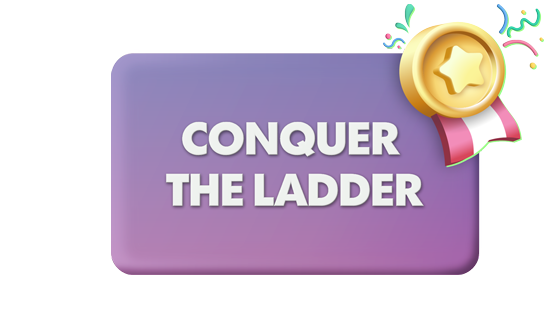
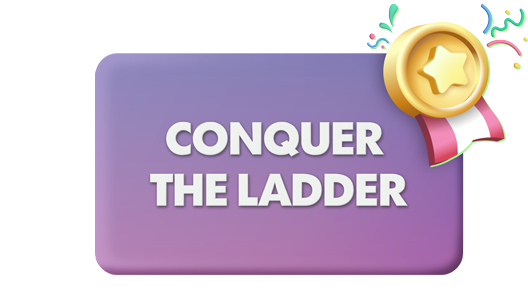
images of welcome page fixed, comment shadow fixed,img cursor fixed,

Changed region(s): [[0.1818, 0.0, 1.0, 0.9269]]

diff --git a/public/css/style.css b/public/css/style.css
@@ -1964,6 +1964,9 @@ span {
     line-height: normal !important;
     margin: 0 !important;
 }
+.badge-card{
+    background: linear-gradient(135deg, rgba(130, 36, 227, 0.04) 0%, rgba(255, 255, 255, 0) 25%, rgba(130, 36, 227, 0.07) 100%) !important;
+}
 .badge-card .gained{
     font-size: 20px;
 }
@@ -2026,6 +2029,11 @@ span {
 }
 .friend-info .carousel-indicators li.active {
     background: #581c87;
+}
+.we-comet{
+    width: 90% !important;
+    margin-left: 20px;
+    margin-top: 20px;
 }
 /* .we-comet>li{
     background: linear-gradient(135deg, rgba(130, 36, 227, 0.04) 0%, rgba(255, 255, 255, 0) 25%, rgba(130, 36, 227, 0.07) 100%) !important;
@@ -2147,6 +2155,9 @@ span {
 .carousel-row{
     margin-left: -35px;
 }
+.carousel-row img{
+    cursor: pointer;
+}
 .green{
     color: #357960 !important;
 }
@@ -2232,22 +2243,37 @@ span {
     background-repeat: no-repeat;
     background-size: cover;
     min-height: 530px;
-    margin-top: -28px;
+    margin-top: -30px;
 }
 .ripple-section .row{
-    min-height: 530px;
+    min-height: 450px;
 }
 .ripple-section .welcome-heading{
     width: fit-content;
     text-align: center;
     margin-top: -100px;
 }
+.ripple-section .welcome-heading a{
+    font-size: 20px;
+}
 .middle-puzzle{
     height: 100%;
     display: flex;
     align-items: center;
-    flex-direction: column;
-    justify-content: space-evenly;
+    justify-content: center;
+}
+.middle-puzzle img{
+    width: 100px;
+}
+@media (min-width: 1400px){
+    .middle-puzzle img{
+        width: 130px;
+    }
+}
+@media (max-width: 991px){
+    .middle-puzzle img{
+        width: 70px;
+    }
 }
 @media (max-width: 767px){
     .ripple-section .welcome-heading{
@@ -2263,4 +2289,7 @@ span {
         right: 0px;
         top: -100px;
     }
+}
+.pointer{
+    cursor: pointer;
 }

diff --git a/public/css/style-services.css b/public/css/style-services.css
@@ -1579,22 +1579,24 @@ p {
 
 .we-video-info>.users-thumb-list>span {
   display: block;
-  font-size: 11px;
+  font-size: 16px;
+  font-weight: 700;
 }
 
 .users-thumb-list>span {
   font-size: 13px;
-  font-weight: 500;
+  font-weight: 700;
 }
 
 .we-video-info>.users-thumb-list>span b {
   color: #222;
-  font-weight: 500;
+  font-weight: 700;
 }
 
 .users-thumb-list>a img {
   border: 2px solid #fff;
   border-radius: 50%;
+  width: 50px;
 }
 
 .coment-area {

diff --git a/resources/views/welcome.blade.php b/resources/views/welcome.blade.php
@@ -28,8 +28,7 @@
                     <h1 class="text-white">Welcome to GamersPlay</h1>
                     <p class="text-white">Your premier destination for finding gamer friends to play with!</p>
                     <br>
-                    <a href="/services" class="button-pu palse">Get started</a>
-                    <!-- <a href="#" class="button-pu pulse">Get started</a> -->
+                    <a href="/services" class="button-pu pulse">Get started</a>
                     <a href="#learnMore" class="button-pub text-white">Learn more</a>
                 </div>
             </div>
@@ -70,48 +69,47 @@
 <div style="height:70px;">
 </div>
 
-<div class="container">
-    <div class="row gamer-puzzle-section">
-        <div class="col-lg-5 col-md-4">
+<!-- <div class="container">
+    <div class="row gamer-puzzle-section justify-content-center">
+        <div class="col-lg-5 col-md-5 px-0">
             <div class="row left-cards">
-                <div class="col-6">
+                <div class="col-6 px-0">
                     <img src="imgs/become-recognized.png" class="w-100" alt="">
                 </div>
-                <div class="col-6">
+                <div class="col-6 px-0">
                     <img src="imgs/earn-xp.png" class="w-100" alt="">
                 </div>
-                <div class="col-6">
+                <div class="col-6 px-0">
                     <img src="imgs/upload-your-highlights-.png" class="w-100" alt="">
                 </div>
-                <div class="col-6">
+                <div class="col-6 px-0">
                     <img src="imgs/conquer-the-ladders.png" class="w-100" alt="">
                 </div>
             </div>
         </div>
-        <div class="col-lg-2 col-md-4">
+        <div class="col-lg-2 col-md-2">
             <div class="middle-puzzle">
-                <img src="imgs/puzzles-blue-yellow.png" class="" alt="">
-                <img src="imgs/puzzles-green-pink.png" class="" alt="">
+                <img src="imgs/purple-bolt.png" alt="">
             </div>
         </div>
-        <div class="col-lg-5 col-md-4">
+        <div class="col-lg-5 col-md-5 px-0">
            <div class="row right-cards">
-                <div class="col-6">
+                <div class="col-6 px-0">
                     <img src="imgs/play-to-earn-crypto-.png" class="w-100" alt="">
                 </div>
-                <div class="col-6">
+                <div class="col-6 px-0">
                     <img src="imgs/get-paid.png" class="w-100" alt="">
                 </div>
-                <div class="col-6">
+                <div class="col-6 px-0">
                     <img src="imgs/keep-your-fans.png" class="w-100" alt="">
                 </div>
-                <div class="col-6">
+                <div class="col-6 px-0">
                     <img src="imgs/vip-benefits.png" class="w-100" alt="">
                 </div>
            </div>
         </div>
     </div>
-</div>
+</div> -->
 
 <div style="display:flex; justify-content:center; margin-top: 40px;">
     <img src="/imgs/arrow-02.png" class="frontpage-arrow-down">
@@ -167,8 +165,49 @@ style="color:white; display:flex; justify-content:center; ">
 
 @endif
 
+<div class="container my-5 pt-4">
+    <div class="row gamer-puzzle-section justify-content-center">
+        <div class="col-lg-5 col-md-5 px-0">
+            <div class="row left-cards">
+                <div class="col-6 px-0">
+                    <img src="imgs/become-recognized.png" class="w-100" alt="">
+                </div>
+                <div class="col-6 px-0">
+                    <img src="imgs/earn-xp.png" class="w-100" alt="">
+                </div>
+                <div class="col-6 px-0">
+                    <img src="imgs/upload-your-highlights-.png" class="w-100" alt="">
+                </div>
+                <div class="col-6 px-0">
+                    <img src="imgs/conquer-the-ladders.png" class="w-100" alt="">
+                </div>
+            </div>
+        </div>
+        <div class="col-lg-2 col-md-2 pr-0">
+            <div class="middle-puzzle">
+                <img src="imgs/purple-bolt.png" alt="">
+            </div>
+        </div>
+        <div class="col-lg-5 col-md-5 px-0">
+           <div class="row right-cards">
+                <div class="col-6 px-0">
+                    <img src="imgs/play-to-earn-crypto-.png" class="w-100" alt="">
+                </div>
+                <div class="col-6 px-0">
+                    <img src="imgs/get-paid.png" class="w-100" alt="">
+                </div>
+                <div class="col-6 px-0">
+                    <img src="imgs/keep-your-fans.png" class="w-100" alt="">
+                </div>
+                <div class="col-6 px-0">
+                    <img src="imgs/vip-benefits.png" class="w-100" alt="">
+                </div>
+           </div>
+        </div>
+    </div>
+</div>
 
-<div style="display:flex; justify-content:center;">
+<div style="display:flex; justify-content:center; padding-top:50px;">
     <img src="/imgs/arrow-02.png" class="frontpage-arrow-down">
 </div>
 

diff --git a/resources/views/services/serviceSingle.blade.php b/resources/views/services/serviceSingle.blade.php
@@ -51,7 +51,7 @@
                                     <img id="img01" src="/temp-services/images/2728343.jpg" data-mdb-img="/temp-services/images/2728343.jpg" alt="" class="img-fluid profile-background-image boder-top-left-right-radius zoom-clicked-img" />
                                 </a> -->
                                 <div class="lightbox lightbox-user-gallery">
-                                    <img src="/temp-services/images/2728343.jpg" data-mdb-img="/temp-services/images/2728343.jpg" alt="" class="w-100 shadow-1-strong rounded mb-2 img-bg-overlay">
+                                    <img src="/temp-services/images/2728343.jpg" data-mdb-img="/temp-services/images/2728343.jpg" alt="" class="pointer w-100 shadow-1-strong rounded mb-2 img-bg-overlay">
                                 </div>
                             </div>
                         </div>
@@ -68,7 +68,7 @@
                                     <div class="">
                                         <!-- <a href="#" class="pop"> -->
                                         <div class="lightbox lightbox-user-gallery">
-                                            <img id="circle-profile-pic" src='{{ $service->user->getProfilePicture() }}' alt="" class="img-fluid profile-image-v2 zoom-clicked-img" />
+                                            <img id="circle-profile-pic" src='{{ $service->user->getProfilePicture() }}' alt="" class="pointer img-fluid profile-image-v2 zoom-clicked-img" />
                                             <!-- </a> -->
                                         </div>
                                     </div>

diff --git a/resources/views/services/dynamic-service-tabs.blade.php b/resources/views/services/dynamic-service-tabs.blade.php
@@ -37,7 +37,7 @@
             <div class="col-12 col-md-5 text-right mb-5">
                 <div class="lightbox lightbox-user-gallery">
                     <!-- <a href="#" class="pop"> -->
-                    <img id="img03" src='/{{ $service->category->image_1 }}' alt="" class="img-fluid border-radius-30 service-big-image zoom-clicked-img" />
+                    <img id="img03" src='/{{ $service->category->image_1 }}' alt="" class="pointer img-fluid border-radius-30 service-big-image zoom-clicked-img" />
                     <!-- </a> -->
                 </div>
             </div>
